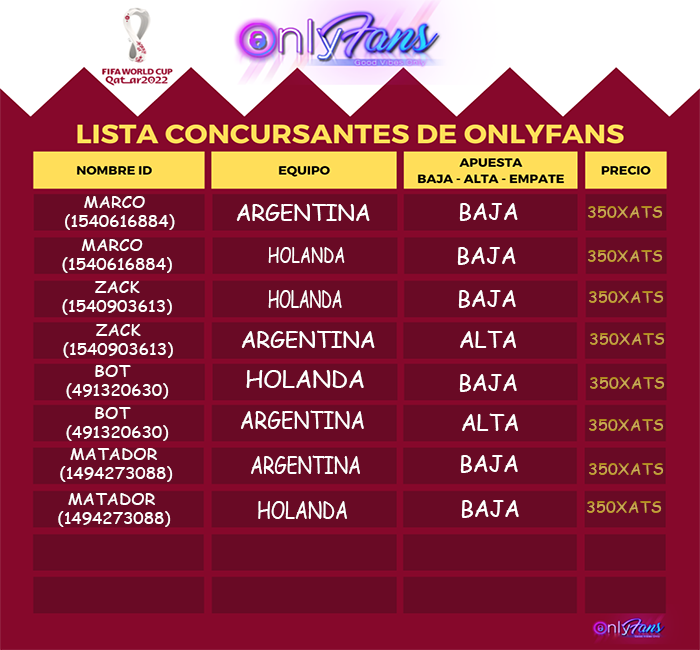
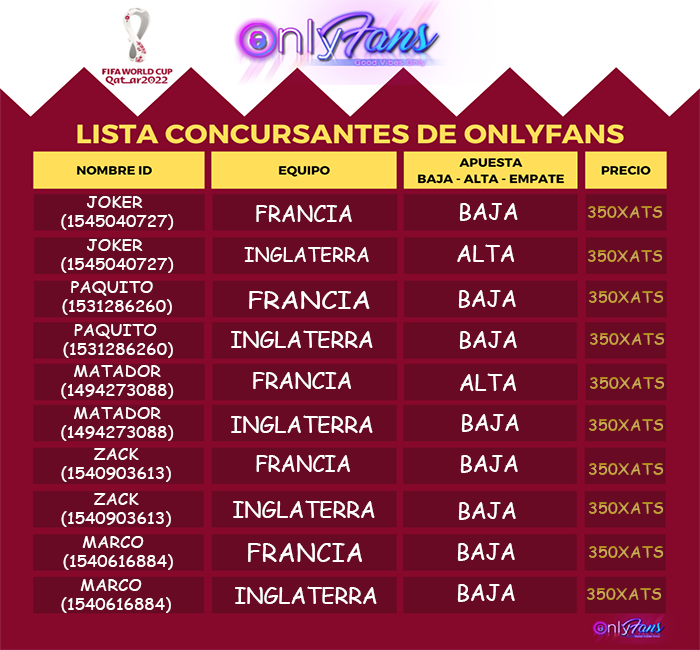
myspace

diff --git a/concursantes.html b/concursantes.html
@@ -117,7 +117,7 @@
     <td>&nbsp;</td>
     <td width="700" height="600"><img src="01.png" alt=""></td>
     <td>&nbsp;</td>
-    <td width="700" height="600"><img src="" alt=""></td>
+    <td width="700" height="600"><img src="002.png" alt=""></td>
     <td>&nbsp;</td>
     <td><table width="123" border="1" align="center">
       <tr>
